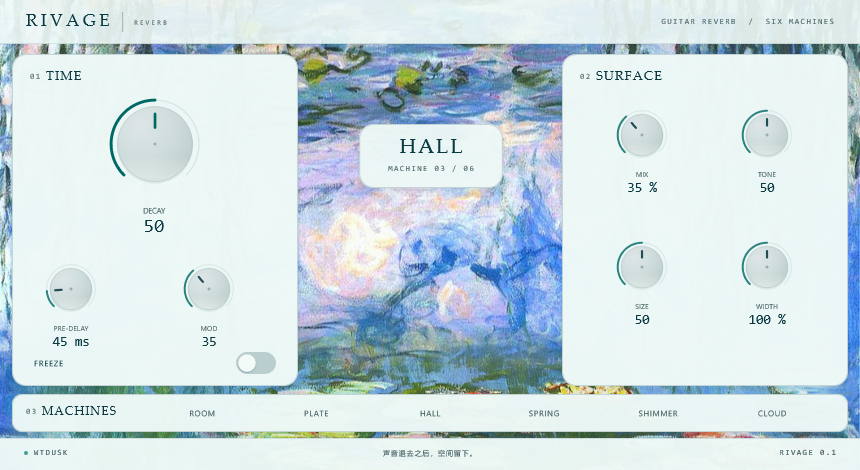
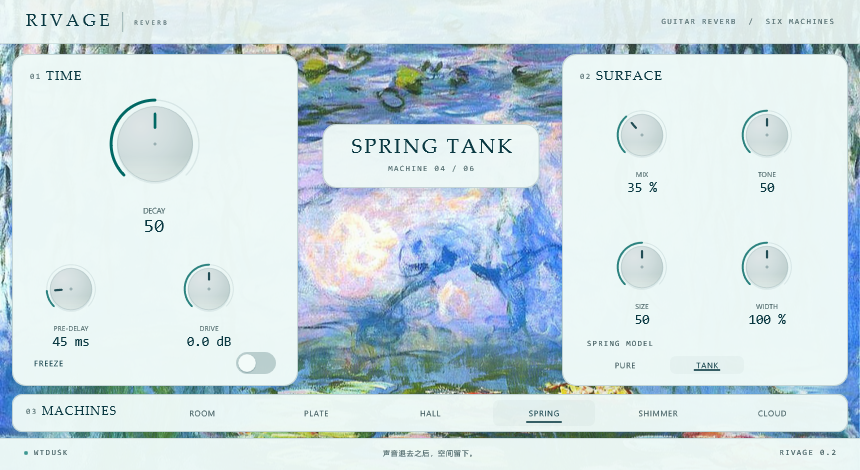
Release 0.2.0
CHANGELOG, README and the UI screenshot updated; version bumped in the
project and the shared-code target.

diff --git a/CHANGELOG.md b/CHANGELOG.md
@@ -4,6 +4,66 @@ All notable changes to this project are recorded here. The format follows
 [Keep a Changelog](https://keepachangelog.com/en/1.1.0/), and the project uses
 [semantic versioning](https://semver.org/spec/v2.0.0.html).
 
+## [0.2.0] — 2026-10-20
+
+SPRING grows a second machine. The old, strictly linear waveguide is kept
+bit-for-bit as `PURE`; the new `TANK` puts the physical chain around it, so the
+spring now answers the input level with different behaviour instead of being
+one fixed filter.
+
+### Added
+
+- **`SPRING PURE` / `SPRING TANK`**, selected by a new `Spring Model` switch in
+  the FREEZE row while SPRING is the active machine. PURE is the 0.1.0 signal
+  path, sample for sample (31-render golden set, all bit-exact); it stays the
+  default so existing sessions sound identical. TANK has its own 12-render
+  golden set (`build/golden/manifest_tank.tsv`) so its timbre is pinned too.
+- **`Drive`** knob (±18 dB around its noon detent, 70 % of the gain change
+  compensated). While SPRING is selected it replaces the MOD knob, which does
+  nothing on a spring. `Drive` is a new parameter; it is neutral on every other
+  machine.
+- TANK's signal chain, all inside `if constexpr` so PURE is untouched:
+  - a drive transducer (tanh around a 0.9 knee with a small static bias, run 2×
+    oversampled so the harmonics do not alias, then DC-blocked);
+  - a level dependent working point: the loop damping shortens RT60 by up to
+    25 % and the output tone follows the material down, both driven by a slow
+    envelope follower (10 ms attack / 400 ms release);
+  - an **impact layer**: when the input level after the Drive gain crosses
+    −12 dBFS (off again below −15 dBFS, 400 ms release) short noise bursts are
+    injected into the coils, 0.5 events/s at the threshold rising 1.8× per dB,
+    capped at 10 events/s, with a 15 % chance of a quieter second tick 6–12 ms
+    later;
+  - a saturating pickup (`tanh` with an 0.8 knee) and the ROOM soft-clip curve
+    on the output instead of the hard clamp.
+- `tools/analysis/`: the measurement toolkit — `rvx_measure.py` (`info`, `thd`,
+  `rt60`, `centroid`, `events`, `compare`, `sweep`), `regress_golden.py` (the
+  bit-exact regression runner), `run_baseline.py`, plus `gate_scan.py`,
+  `burst_tail.py`, `tank_regimes.py` and `capture_tank_golden.py` for the spring
+  work. `tools/preview` gained `--set id=value`.
+- Golden capture sets (kept local under `build/golden/`, regenerated with
+  `tools/analysis/capture_tank_golden.py` and the original capture script): 31
+  PURE renders and 12 TANK renders, compared by SHA-256 plus `max|diff| == 0`.
+
+### Changed
+
+- `docs/REPORT.md` §5.4 now documents the two spring machines, §7.1 lists the
+  two new parameters, and §8.0 has the TANK level-state measurements.
+- Version 0.2.0; editor status bar reads `RIVAGE 0.2`.
+
+### Fixed
+
+- The machine tabs at the bottom of the editor never showed which machine was
+  active. `juce::ParameterAttachment` hands back the *denormalised* value, so the
+  old callback multiplied an item index by five and always landed out of range.
+
+### Known limitations
+
+- TANK is deliberately non-linear: it fails null tests and its THD rises with
+  level (1 kHz sine: 0.02 % at −74 dBFS, 0.08 % at −44, 2.2 % at −14, 11 % at
+  0 dBFS). PURE is the numerically linear machine.
+- The impact layer has no user control — its threshold, rate and level are fixed
+  by design, and it is switched off while Freeze is engaged.
+
 ## [0.1.0] — 2026-10-19
 
 First release. Windows x64 VST3, as a source tree, a portable archive and a Windows installer. The binaries are not code-signed.
@@ -48,4 +108,5 @@ First release. Windows x64 VST3, as a source tree, a portable archive and a Wind
   short tank delays rather than a bug.
 - No VST2, AU or AAX builds.
 
+[0.2.0]: https://github.com/WTdusk/rivage-reverb/releases/tag/v0.2.0
 [0.1.0]: https://github.com/WTdusk/rivage-reverb/releases/tag/v0.1.0

diff --git a/README.md b/README.md
@@ -8,7 +8,7 @@ its own signal path rather than a preset on a shared engine — a room with earl
 reflections and low-frequency modes, a dense plate, a progressive-diffusion hall,
 a dispersive spring, a shimmering hall, and a long drifting cloud.
 
-Version 0.1.0 (pre-release). Windows x64 VST3.
+Version 0.2.0 (pre-release). Windows x64 VST3.
 
 ![The Rivage Reverb editor](docs/rivage-ui.png)
 
@@ -21,14 +21,21 @@ Version 0.1.0 (pre-release). Windows x64 VST3.
     reflections, a fixed 3.8 kHz sheen.
   - `HALL` — progressive diffusion: the four diffuser stages fade into the tank
     one after another, so the tail thickens over its first ~70 ms; 16-line FDN.
-  - `SPRING` — six coil delays, each with 24 first-order allpass stages inside
-    the feedback loop for dispersion; no modulation.
+  - `SPRING` — in two voicings. `PURE` is the 0.1.0 signal path: six coil delays,
+    each with 24 first-order allpass stages inside the feedback loop for
+    dispersion, no modulation, numerically linear. `TANK` wraps that waveguide in
+    the physical chain — a saturating drive transducer, a level-dependent working
+    point (damping and tone follow how hard the tank is driven) and a restrained
+    impact layer that ticks the coils when the input goes past −12 dBFS. PURE is
+    the default, so projects made with 0.1.0 sound identical.
   - `SHIMMER` — the hall tank with an octave-up granular pitch shifter feeding
     the input, so each pass through the tank climbs another octave.
   - `CLOUD` — three allpass chains with their own feedback delays, slowly
     modulated; no tank, no early reflections.
 - **Seven knobs and one switch**: Mix, Decay, Pre-Delay, Tone, Mod, Size, Width,
-  Freeze.
+  Freeze. While SPRING is selected the MOD knob becomes **Drive** (±18 dB, with
+  70 % of the gain change compensated) and a `PURE / TANK` switch appears in the
+  FREEZE row.
 - Zero added latency, no look-ahead, mono or stereo in.
 - Low end below 120 Hz is folded to the centre so the tail never goes hollow in
   mono.
@@ -51,6 +58,11 @@ default settings:
 
 Decay knob response (RT60 at knob 0.1 / 0.35 / 0.6 / 0.9): ROOM 0.72 → 2.86 s,
 HALL 0.98 → 12.33 s, SPRING 1.21 → 5.47 s, CLOUD 2.02 → 9.79 s.
+
+The table is PURE. `SPRING TANK` at its default Drive starts from the same
+2.56 s but answers level instead of being one fixed filter: damping shortens the
+tail and the pickup saturates as the tank is driven, and Drive at +18 dB takes
+RT60 down to 1.68 s. `docs/REPORT.md` §8.0 has the level-state measurements.
 
 CPU, 48 kHz / 64-sample buffer, one core: 2.6 % (PLATE) to 8.1 % (ROOM).
 
@@ -80,7 +92,7 @@ The VST3 lands in
 
 ## Installing
 
-Windows x64: run `RivageReverb-0.1.0-win64.exe` from the release page and press
+Windows x64: run the Windows installer from the release page and press
 next. It installs into `C:\Program Files\Common Files\VST3\Rivage Reverb.vst3`
 by default, and asks for administrator rights only because that folder needs
 them. Change the folder on the first page if your plug-ins live somewhere else;
@@ -113,6 +125,9 @@ already scans that path, otherwise point the DAW at the build folder directly.
   with `--screenshot` for documentation images.
 - `scripts/smoke.sh` — 26 renders across algorithms, sample rates and buffer
   sizes. Run by CI on every push.
+- `tools/analysis` — the measurement toolkit: `rvx_measure.py` (RT60, THD,
+  spectral centroid, impact events, level sweeps), `regress_golden.py` (the
+  bit-exact PURE regression) and the baseline reports in `build/measures/`.
 
 ## Licence
 
